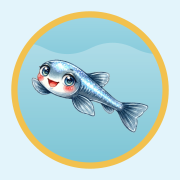
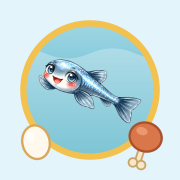
v1.4.2: アイコンに卵と骨付き肉を追加

diff --git a/sw.js b/sw.js
@@ -1,6 +1,6 @@
 // たんぱく質ノート service worker
 // ファイルを更新したら VERSION を上げる（古いキャッシュが消えて新しい版が配られる）
-const VERSION = 'pnm-v1.4.1';
+const VERSION = 'pnm-v1.4.2';
 const ASSETS = [
   './', 'index.html', 'style.css', 'app.js', 'photos.js', 'foods.json', 'manifest.webmanifest',
   'icons/icon-192.png', 'icons/icon-512.png', 'icons/apple-touch-icon.png', 'icons/icon-maskable-512.png',
